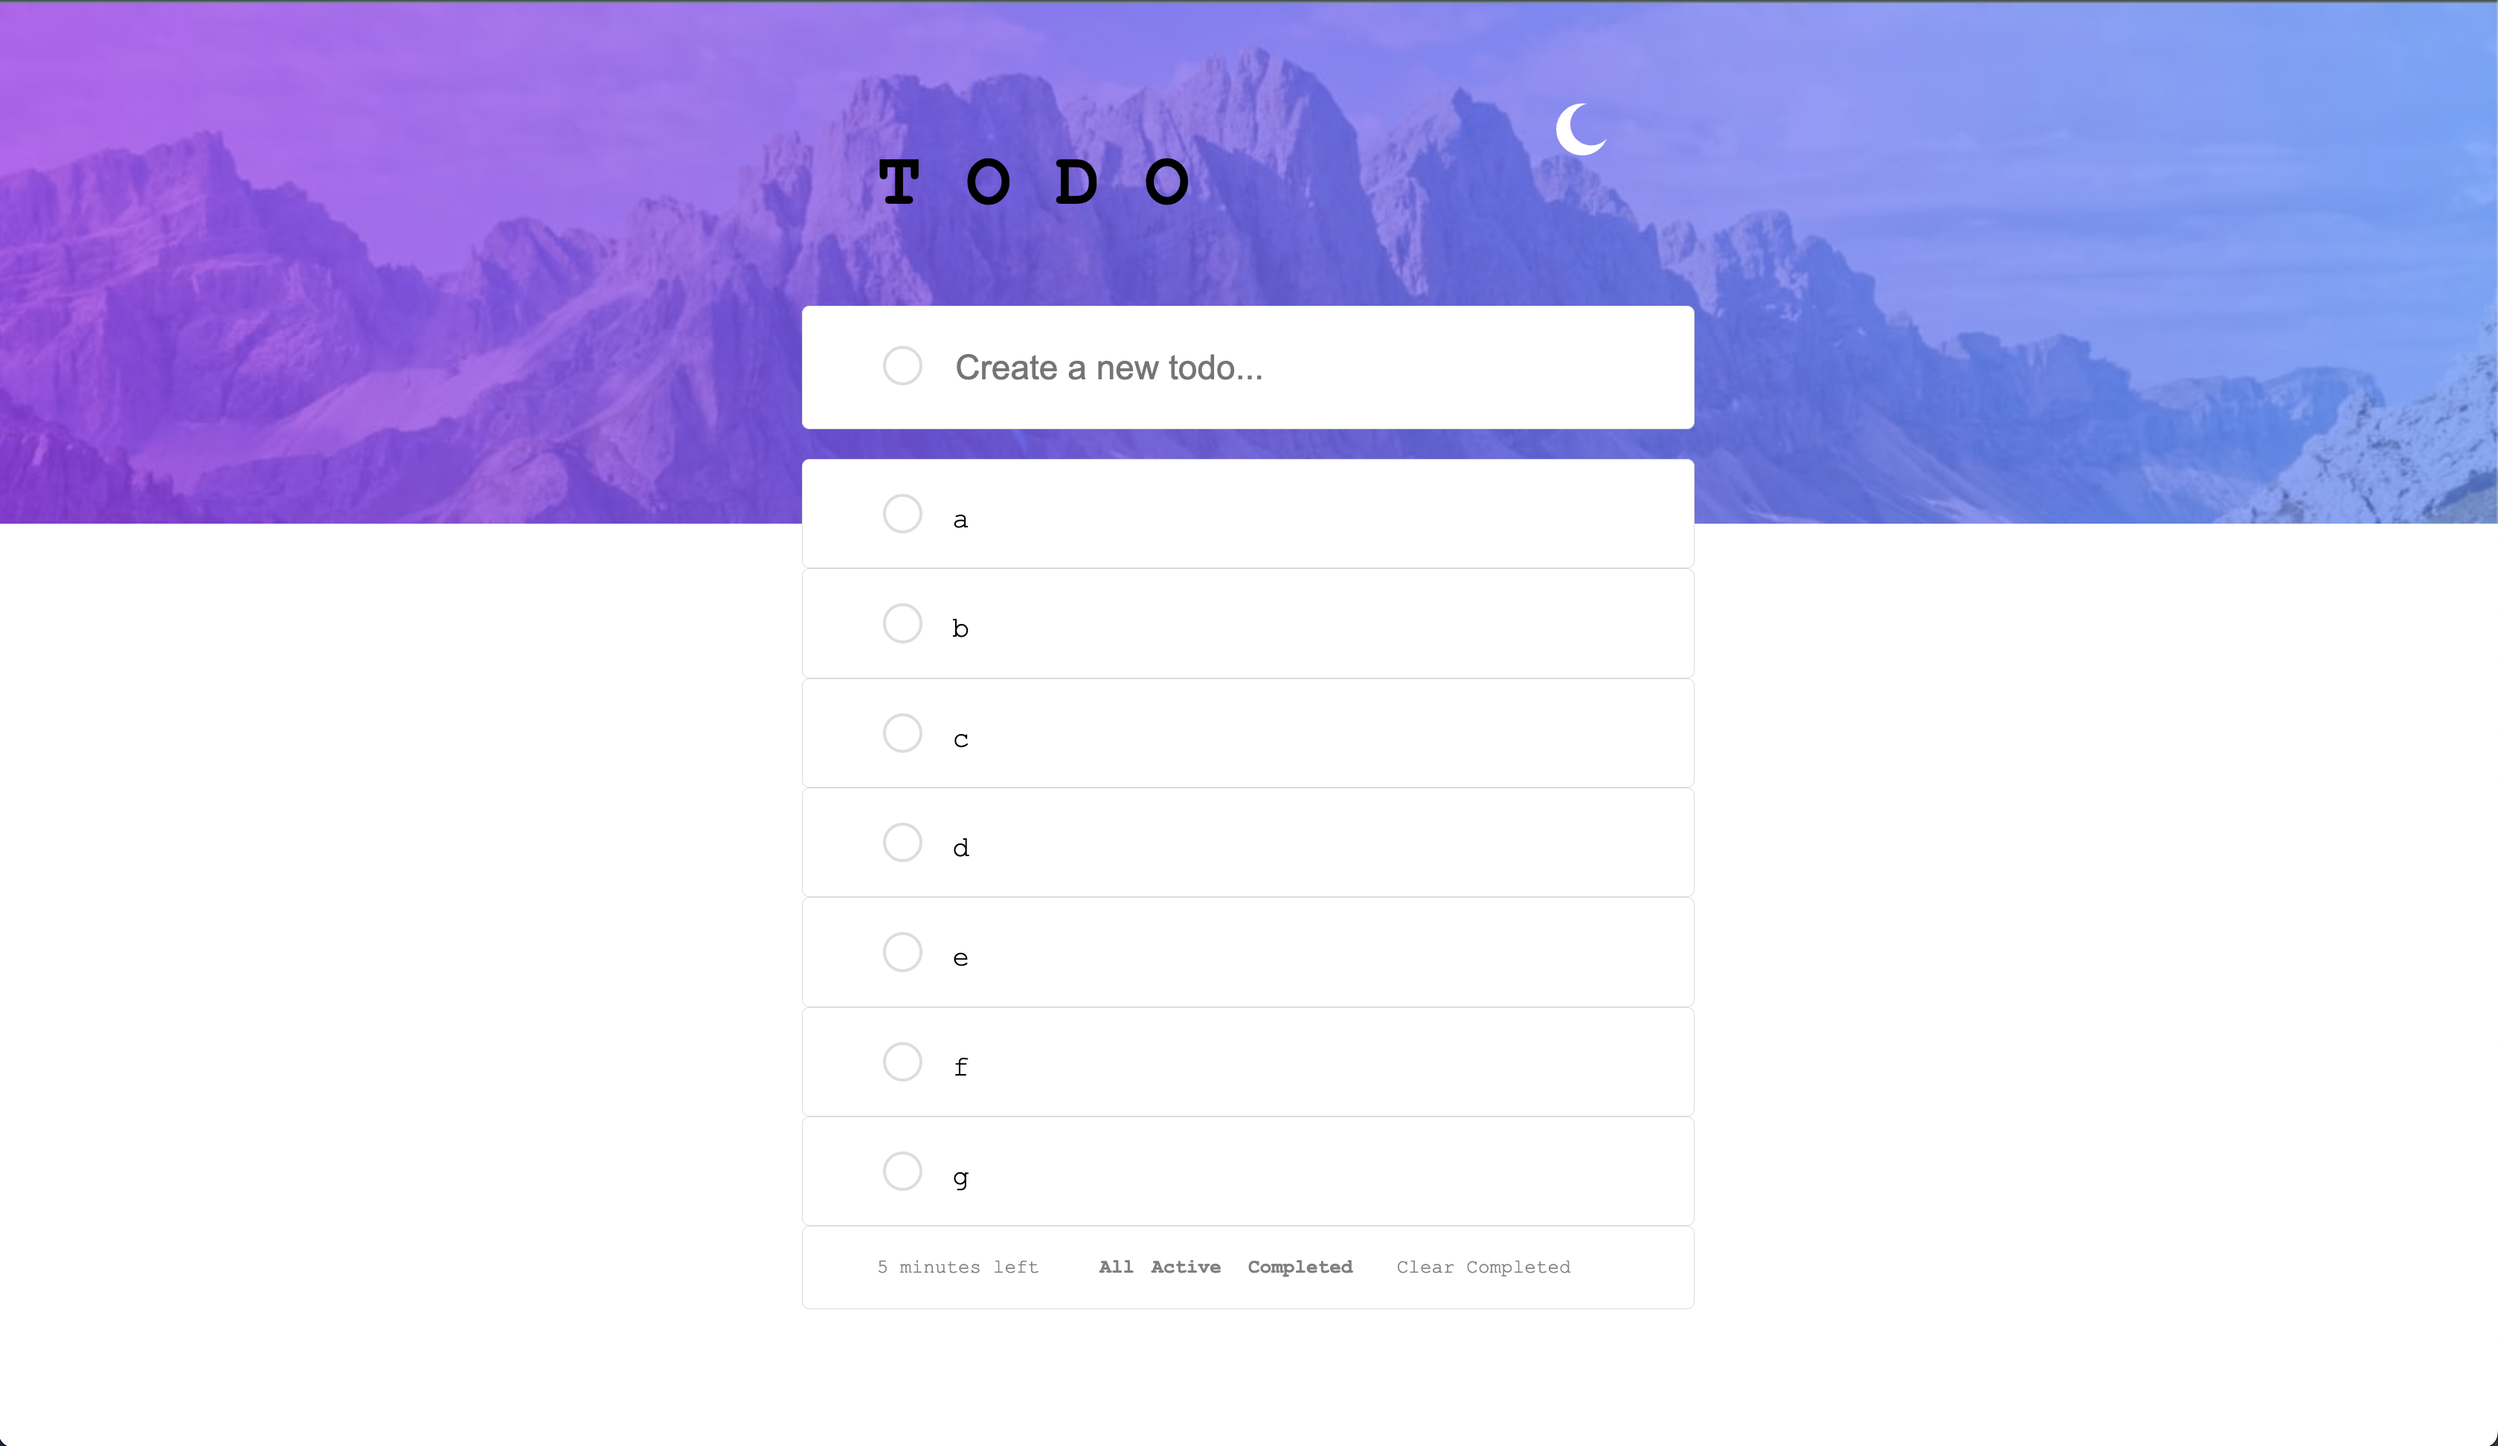
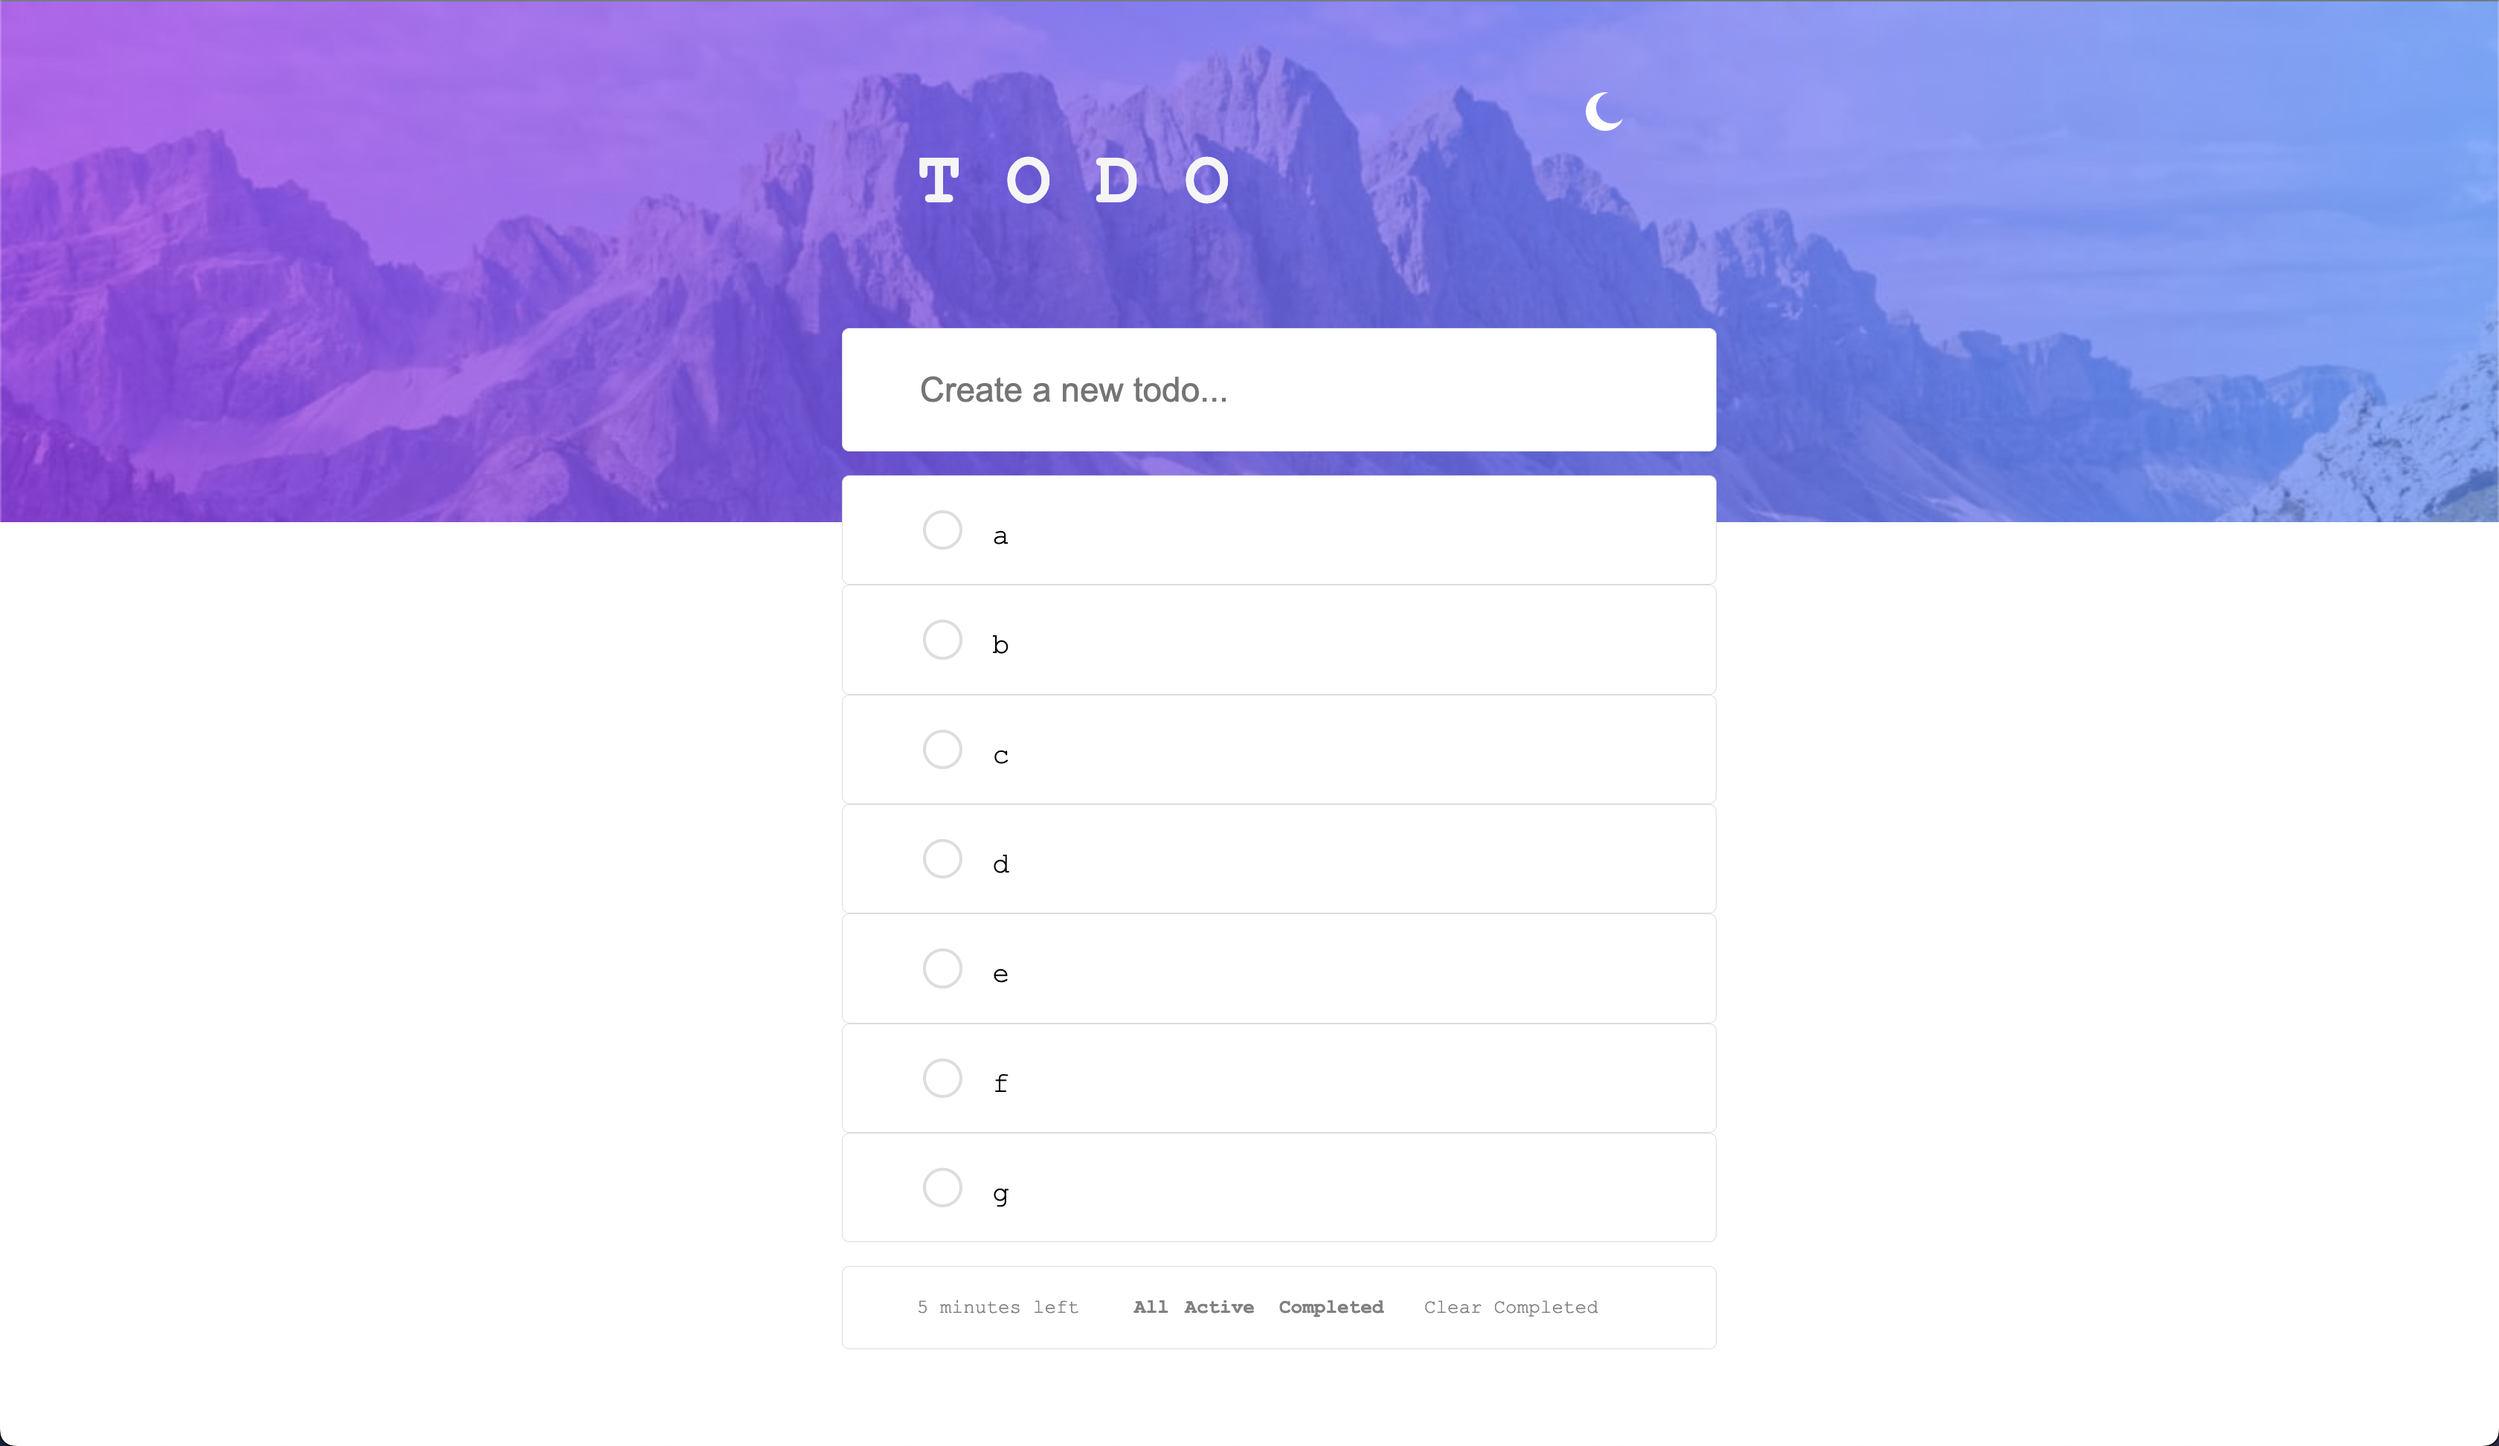
full widget

diff --git a/index.html b/index.html
@@ -8,73 +8,81 @@
 <body>
     <script src="./script.js"></script>
     <div style="margin-top: 40px;"> 
-        <div class="title"  style="border: 0px; background-color:transparent">
-            <div style="width: 100%; height:100%; overflow:hidden">
-                <h1 style="color:whitesmoke; border: 10px; float:left; width:90%; font-size:50px">T O D O</h1>
-                <button type="button" 
-                    style="float: right; width:10%; border:0px; background-color:transparent"
-                    onclick="changeTheme()">
-                    <img id="theme-icon" src="./images/icon-moon.svg" alt="buttonpng">
-                </button>
-            </div>
-        </div>
-        <div style="margin-bottom: 20px;" class="box">
-            <input type="checkbox" class="checkbox-round">
-            <input type="text" style=
-            "border: 0px; 
-            font-size:larger; 
-            width:85%; 
-            height:40px;
-            background-color:inherit" placeholder="Create a new todo...">
-        </div>
-        <div class="box">
-            <input type="checkbox" class="checkbox-round">a
-        </div>
-        <div class="box">
-            <input type="checkbox" class="checkbox-round">b
-        </div>
-        <div class="box">
-            <input type="checkbox" class="checkbox-round">c
-        </div>
-        <div class="box">
-            <input type="checkbox" class="checkbox-round">d            
-        </div>
-        <div class="box">
-            <input type="checkbox" class="checkbox-round">e           
-        </div>
-        <div class="box">
-            <input type="checkbox" class="checkbox-round">f           
-        </div>
-        <div class="box">
-            <input type="checkbox" class="checkbox-round">g
-        </div>
-        <div style="padding-top:20px; padding-bottom:20px; font-size:small" class="box">
-            <div id="widget" style="height:100%; width:100%; overflow:hidden">
-                <div style="float:left; width:30%; color:gray;">
-                    5 minutes left
+        <ul>
+            <li  style="border: 0px; background-color:transparent">
+                <div style="width: 100%; height:100%; overflow:hidden">
+                    <h1 style="color:whitesmoke; border: 10px; float:left; width:90%; font-size:50px">T O D O</h1>
+                    <button type="button" 
+                        style="float: right; width:10%; border:0px; background-color:transparent"
+                        onclick="changeTheme()">
+                        <img id="theme-icon" src="./images/icon-moon.svg" alt="buttonpng">
+                    </button>
                 </div>
-                <a href="#All">
-                    <div id="allTask" style="float:left; width:7%; color:gray;">        
-                        <strong>All</strong>    
+            </li>
+        </ul>
+        <ul>
+            <li onkeydown="if (event.keyCode == 13) addEvent()">
+                <input id='input' type="text" style=
+                "border: 0px; 
+                font-size:larger; 
+                width:85%; 
+                height:40px;
+                background-color:inherit" placeholder="Create a new todo...">
+                </button>
+            </li>
+        </ul>
+        <ul id="task-list">
+            <li>
+                <input id="task1" type="checkbox" class="checkbox-round" onclick="completedEvent(1)">a
+            </li>
+            <li>
+                <input id="task2" type="checkbox" class="checkbox-round" onclick="completedEvent(2)">b
+            </li>
+            <li>
+                <input id="task3" type="checkbox" class="checkbox-round" onclick="completedEvent(3)">c
+            </li>
+            <li>
+                <input id="task4" type="checkbox" class="checkbox-round" onclick="completedEvent(4)">d
+            </li>
+            <li>
+                <input id="task5" type="checkbox" class="checkbox-round" onclick="completedEvent(5)">e
+            </li>
+            <li>
+                <input id="task6" type="checkbox" class="checkbox-round" onclick="completedEvent(6)">f
+            </li>
+            <li>
+                <input id="task7" type="checkbox" class="checkbox-round" onclick="completedEvent(7)">g
+            </li>
+        </ul>
+        <ul>
+            <li style="padding-top:20px; padding-bottom:20px; font-size:small">
+                <div id="widget" style="height:100%; width:100%; overflow:hidden">
+                    <div style="float:left; width:30%; color:gray;">
+                        5 minutes left
                     </div>
-                </a>
-                <a href="#Active">
-                    <div id="activeTask" style="float:left; width:13%; color:gray;">
-                        <strong>Active</strong>
-                    </div>
-                </a>
-                <a href="#Completed">
-                    <div id="completeTask" style="float:left; width:20%; color:gray;">
-                        <strong>Completed</strong>
-                    </div>
-                </a>
-                <a href="#Clear">
-                    <div id="clearButton" style="float:right; width:30%; color:gray;">
-                        Clear Completed
-                    </div>
-                </a>
-            </div>
-        </div>
+                    <a href="#All" onclick="displayAllEvent()">
+                        <div id="allTask" style="float:left; width:7%; color:gray;">        
+                            <strong>All</strong>    
+                        </div>
+                    </a>
+                    <a href="#Active" onclick="displayAllActive()">
+                        <div id="activeTask" style="float:left; width:13%; color:gray;">
+                            <strong>Active</strong>
+                        </div>
+                    </a>
+                    <a href="#Completed" onclick="displayAllCompleted()">
+                        <div id="completeTask" style="float:left; width:20%; color:gray;">
+                            <strong>Completed</strong>
+                        </div>
+                    </a>
+                    <a href="#Clear" onclick="removeAllCompleted()">
+                        <div id="clearButton" style="float:right; width:30%; color:gray;">
+                            Clear Completed
+                        </div>
+                    </a>
+                </div>
+            </li>
+        </ul>
     </div>
 </body>
 </html>

diff --git a/script.js b/script.js
@@ -7,6 +7,7 @@ var id_background_image = 0;
 var id_background_color = 0;
 var id_text_color = 1;
 var id_box_color = 0;
+var id_task = 7;
 
 function changeIconTheme() {
     document.getElementById('theme-icon').src=icon[1-id_icon];
@@ -22,8 +23,9 @@ function changeBackground() {
 }
 
 function changeBoxColor() {
-    var els = document.getElementsByClassName('box');
-    for (var i = 0; i < els.length; i++) {
+    document.getElementById('input').style.color = color[1-id_text_color];
+    var els = document.getElementsByTagName('li');
+    for (var i = 1; i < els.length; i++) {
         els[i].style.color = color[1-id_text_color];
         els[i].style.backgroundColor = box_color[1-id_box_color];
     }
@@ -35,4 +37,72 @@ function changeTheme() {
     changeIconTheme();
     changeBackground();
     changeBoxColor();
+}
+
+function completedEvent(id) {
+    if (document.getElementById("task" + id).parentElement.style.textDecoration != 'line-through') {
+        document.getElementById("task" + id).parentElement.style.textDecoration = 'line-through';
+    } else {
+        document.getElementById("task" + id).parentElement.style.textDecoration = 'none';
+    }
+}
+
+function displayAllEvent() {
+    els = document.getElementsByTagName('li');
+    for (var i = 2; i < els.length - 1; i++) {
+        els[i].style.display = 'block';
+    }
+}
+
+function displayAllActive() {
+    els = document.getElementsByTagName('li');
+    for (var i = 2; i < els.length - 1; i++) {
+        if (els[i].style.textDecoration != 'line-through') {
+            els[i].style.display = 'block';
+        } else {
+            els[i].style.display = 'none';
+        }
+    }
+}
+
+function displayAllCompleted() {
+    els = document.getElementsByTagName('li');
+    for (var i = 2; i < els.length - 1; i++) {
+        if (els[i].style.textDecoration == 'line-through') {
+            els[i].style.display = 'block';
+        } else {
+            els[i].style.display = 'none';
+        }
+    }
+}
+
+function removeAllCompleted() {
+    els = document.getElementsByTagName('li');
+    for (var i = 2; i < els.length - 1; i++) {
+        if (els[i].style.textDecoration == 'line-through') {
+            els[i].style.display = 'none';
+        }
+    }
+}
+
+function addEvent() {
+    var li = document.createElement('li');
+    li.style.backgroundColor = box_color[id_box_color];
+    li.style.color = color[id_text_color];
+    var input_value = document.getElementById('input').value;
+    var event = document.createTextNode(input_value);
+    var ip = document.createElement('input');
+    ++id_task;
+    ip.setAttribute('id', `task${id_task}`);
+    ip.setAttribute('type', 'checkbox');
+    ip.setAttribute('class', 'checkbox-round');
+    ip.setAttribute('onclick' ,`completedEvent(${id_task})`);
+    li.appendChild(ip);
+    li.appendChild(event);
+    if (input_value == '') {
+        alert('Write Something');
+    } else {
+        document.getElementById('task-list').appendChild(li);
+    }
+    document.getElementById('input').value = '';
 }

diff --git a/style.css b/style.css
@@ -22,29 +22,16 @@ body {
 
 .checkbox-round:checked {
     background: linear-gradient(150deg,#00FFFF 30%, rgb(146, 88, 146) 70%);
+    text-decoration: line-through;
 }
 
-.checked {
+ul li.checked {
     background: #888;
     color: #fff;
     text-decoration: line-through;
-  }
-
-.title {
-    margin: auto;
-    padding: 20px 50px 20px;
-    width: 30%;
-    height: 50%;
-    border: 0.5px solid black;
-    border-radius: 5px;
-    border-color: gainsboro;
-    text-align: left;
-    font-size: larger;
-    color: black;
-    background-color: white;
 }
 
-.box {
+ul li {
     margin: auto;
     padding: 20px 50px 20px;
     width: 30%;
@@ -56,4 +43,10 @@ body {
     font-size: larger;
     color: black;
     background-color: white;
+    list-style-type: none;
+}
+
+ul li:hover {
+    color: white;
+    background-color: #312d3e';
 }
